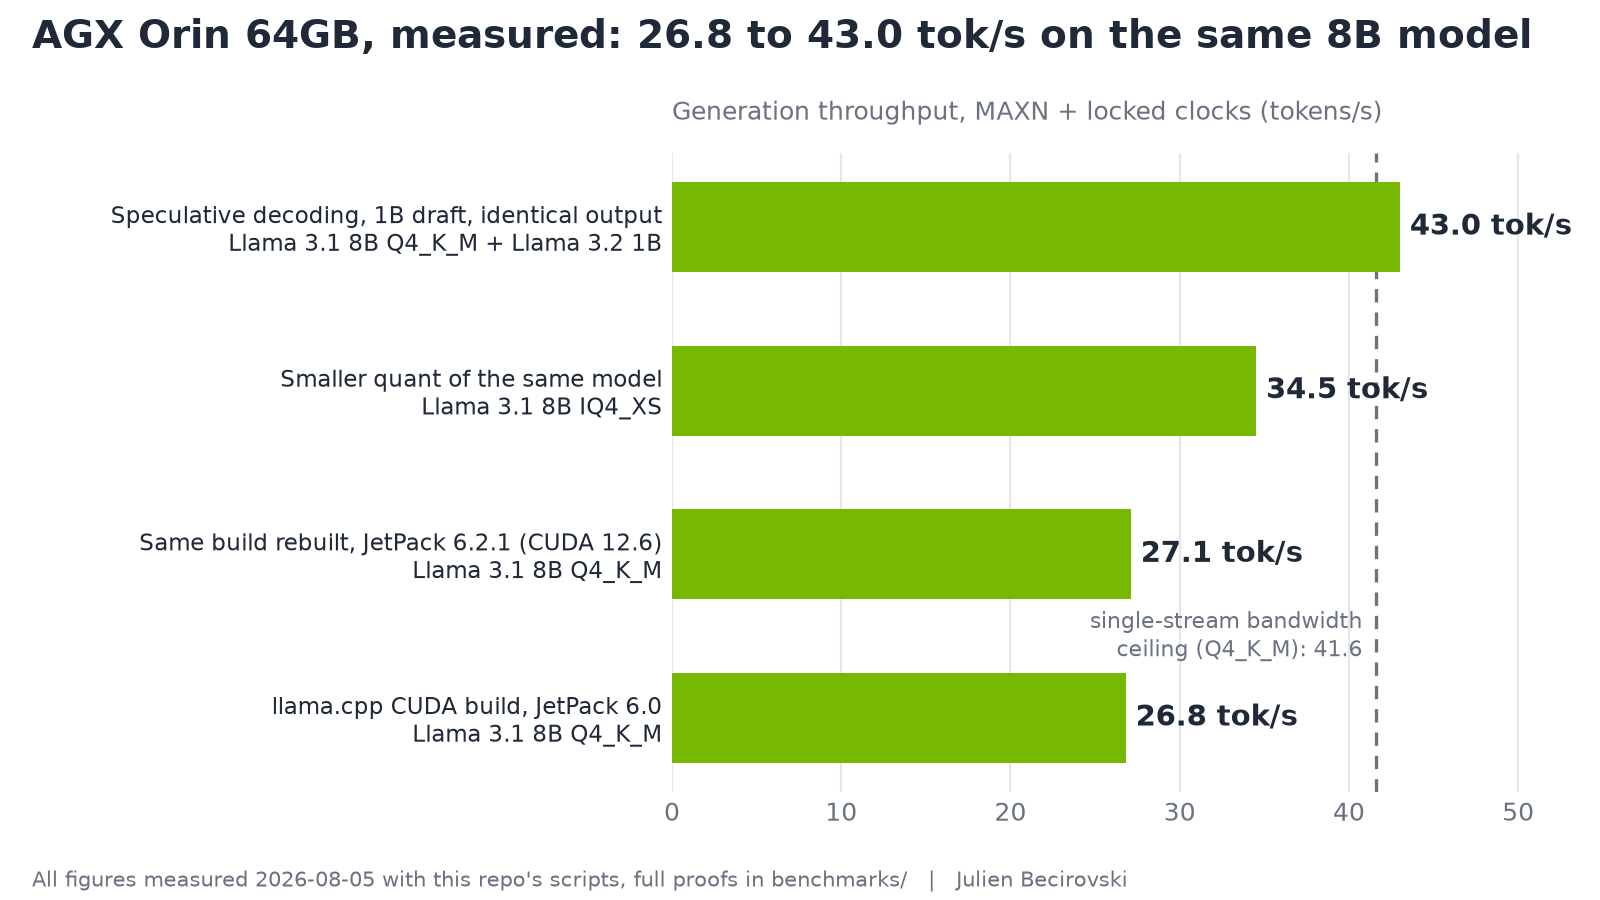
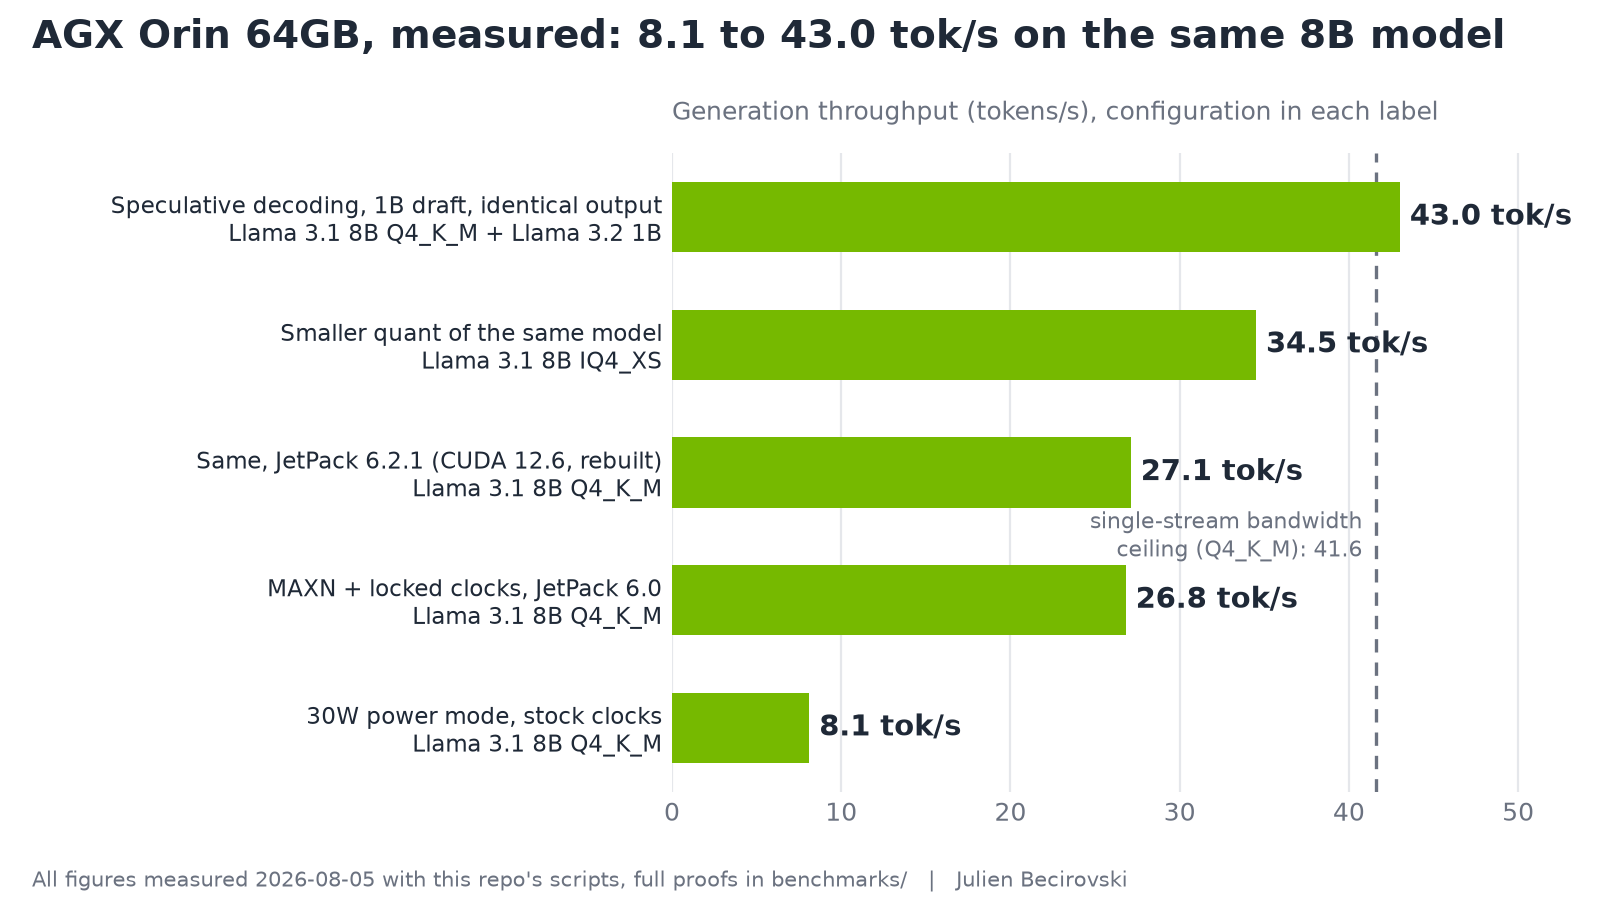
measure power-mode decomposition, update chart and README to 8.1-43.0 range

diff --git a/README.md b/README.md
@@ -2,16 +2,18 @@
 
 Get the maximum LLM tokens/sec out of an NVIDIA Jetson board, and prove it.
 
-On the same board, the same llama.cpp goes from 1.8 to 52 tok/s depending on
-the build, quantization, power mode and board variant (a 29x gap, see sources
-below). This repo gives you, in order:
+On one AGX Orin 64GB, the same 8B model generates anywhere between 8.1 and
+43.0 tok/s in our own measurements - a 5.3x gap driven entirely by power
+mode, quantization and decoding strategy (the JetPack version moves it by
+1%). Published figures spread even wider, from 1.8 to a claimed 52 tok/s
+(see sources below). This repo gives you, in order:
 
 1. a script that puts the board in its maximum-performance configuration,
 2. the two install paths for a fast LLM runtime (containers or native build),
 3. a script that captures the full configuration next to your results, so your
    numbers are comparable and reproducible.
 
-![Bar chart of this repo's measured generation throughput on AGX Orin 64GB: Llama 3.1 8B Q4_K_M at 26.8 tok/s under JetPack 6.0 and 27.1 under 6.2.1, IQ4_XS at 34.5, and speculative decoding with a 1B draft at 43.0 - the only bar crossing the dashed single-stream bandwidth ceiling of 41.6 tok/s](assets/runtime-29x.png)
+![Bar chart of this repo's measured generation throughput on AGX Orin 64GB, all with Llama 3.1 8B: 8.1 tok/s in 30W power mode with stock clocks, 26.8 in MAXN with locked clocks under JetPack 6.0, 27.1 under JetPack 6.2.1, 34.5 with the smaller IQ4_XS quant, and 43.0 with speculative decoding using a 1B draft - the only bar crossing the dashed single-stream bandwidth ceiling of 41.6 tok/s](assets/runtime-29x.png)
 
 Target platform: AGX Orin under JetPack 6.2 (L4T r36.4.x). Figures below are
 from the sources at the bottom.
@@ -26,12 +28,15 @@ sudo ./maximize-perf.sh --fan  # same, plus max fan speed
 What it does, in the order required by NVIDIA's docs:
 
 1. `nvpmodel -m <MAXN id>` - switches to the highest power mode (the id is
-   read from `/etc/nvpmodel.conf`, it varies across boards). Power mode and
-   board variant together account for up to 2.5x throughput (30W on a 32GB
-   board vs MAXN on a 64GB, see sources).
+   read from `/etc/nvpmodel.conf`, it varies across boards). Measured on our
+   board: **3.3x generation throughput** between 30W and MAXN (see Measured
+   results). Note: switching between modes with different online-core counts
+   requires a reboot, and nvpmodel prompts for it - the script fails cleanly
+   instead of hanging when run non-interactively.
 2. `jetson_clocks` - locks CPU/GPU/EMC clocks to their maximum. Must run
    *after* nvpmodel: once clocks are locked, changing the power mode requires
-   a reboot.
+   a reboot. Measured effect on sustained throughput: ~+1% - its real value
+   is measurement stability (see Measured results).
 
 ## Step 2 - Install a fast runtime
 
@@ -153,6 +158,28 @@ generation (the number that matters for an interactive agent).
 | 6.0 (CUDA 12.2) | IQ4_XS (4.13 GiB) | 1122.1 ± 30.3 | 33.5 ± 0.9 | [dir](benchmarks/2026-08-05-agx-orin-64gb-jetpack-6.0-iq4xs/) |
 | 6.2.1 (CUDA 12.6) | Q4_K_M (4.58 GiB) | 1001.7 ± 8.7 | 27.1 ± 0.0 | [dir](benchmarks/2026-08-05-agx-orin-64gb-jetpack-6.2.1/) |
 | 6.2.1 (CUDA 12.6) | IQ4_XS (4.13 GiB) | 1195.0 ± 12.7 | 34.5 ± 0.1 | [dir](benchmarks/2026-08-05-agx-orin-64gb-jetpack-6.2.1-iq4xs/) |
+
+### What Step 1 actually buys you, decomposed
+
+Same board, same JetPack 6.2.1, same build, same Q4_K_M model - only the
+power settings change (each step measured after a fresh reboot):
+
+| Power configuration | pp512 tok/s | tg128 tok/s | Proof |
+| --- | --- | --- | --- |
+| 30W mode, stock clocks | 249.6 ± 0.7 | 8.1 ± 0.1 | [dir](benchmarks/2026-08-05-agx-orin-64gb-jetpack-6.2.1-30w-stock/) |
+| MAXN mode, stock clocks | 992.4 ± 10.9 | 26.9 ± 0.2 | [dir](benchmarks/2026-08-05-agx-orin-64gb-jetpack-6.2.1-maxn-stock-clocks/) |
+| MAXN + `jetson_clocks` | 1002.2 ± 8.8 | 27.1 ± 0.0 | [dir](benchmarks/2026-08-05-agx-orin-64gb-jetpack-6.2.1-maxn-locked-clocks/) |
+
+Two findings worth more than the folklore:
+
+- **The power mode is the whole story: 3.3x on generation** (8.1 → 26.9),
+  4x on prefill. This is on the *same* 64GB board - bigger than the 2.5x from
+  the GitHub thread, which mixed power mode with a board-variant change.
+- **Locking clocks barely moves sustained throughput (+0.7%)** - under
+  continuous load, DVFS ramps the clocks up by itself. What `jetson_clocks`
+  actually buys is *stability*: the tg128 standard deviation drops from ±0.16
+  to ±0.01. Lock the clocks so your numbers are reproducible, not to make
+  them bigger.
 
 ### Why generation is stuck around 30 tok/s: the bandwidth ceiling
 
